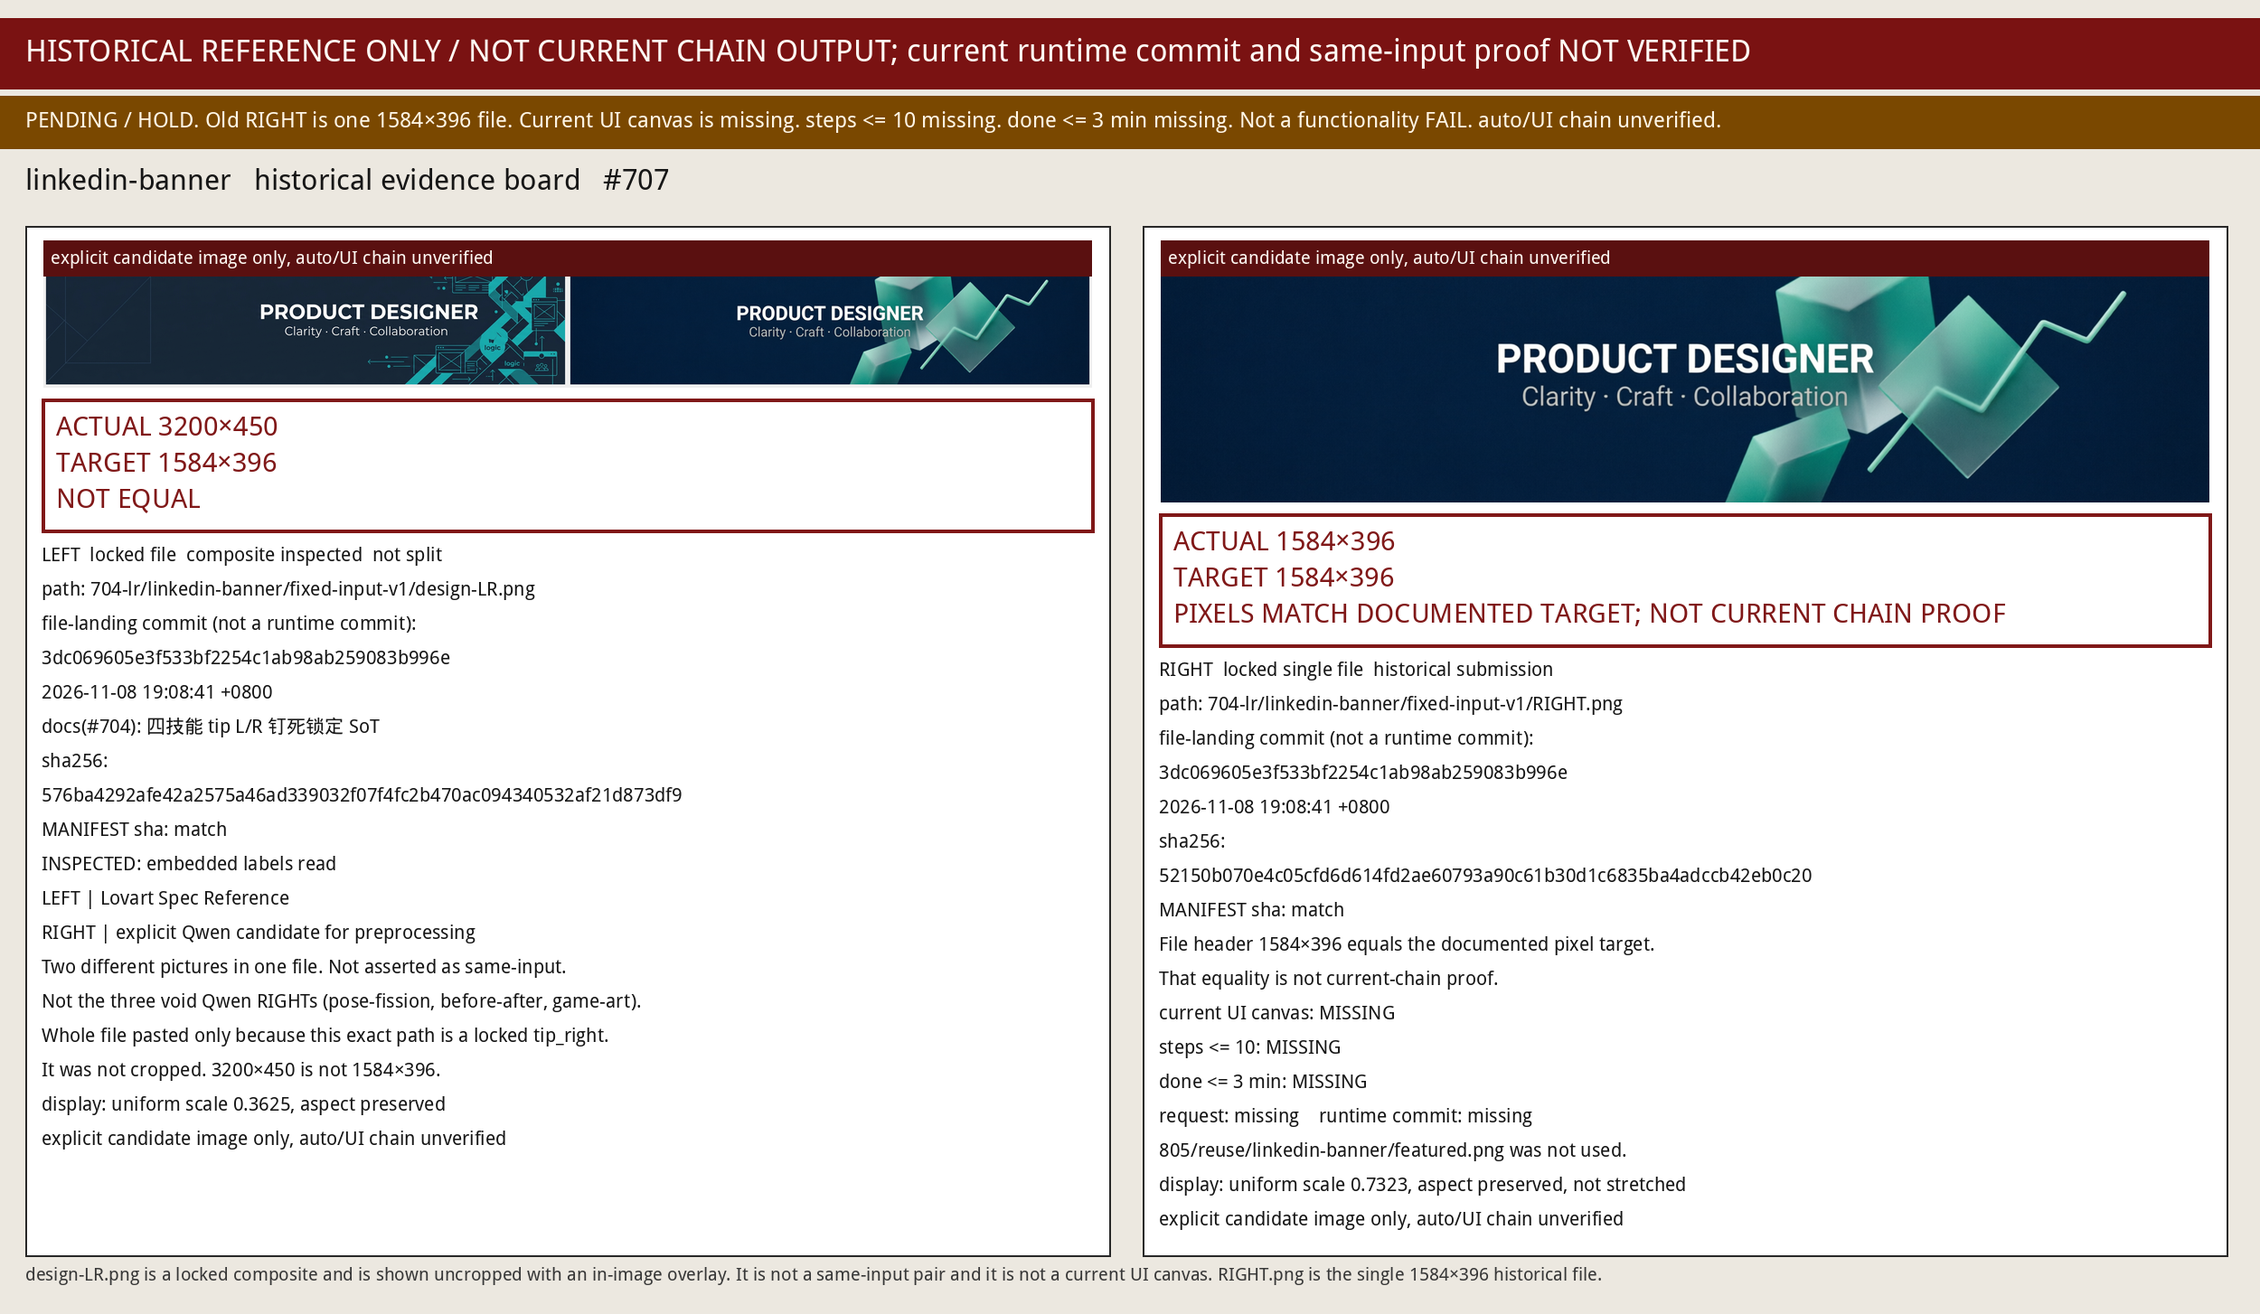
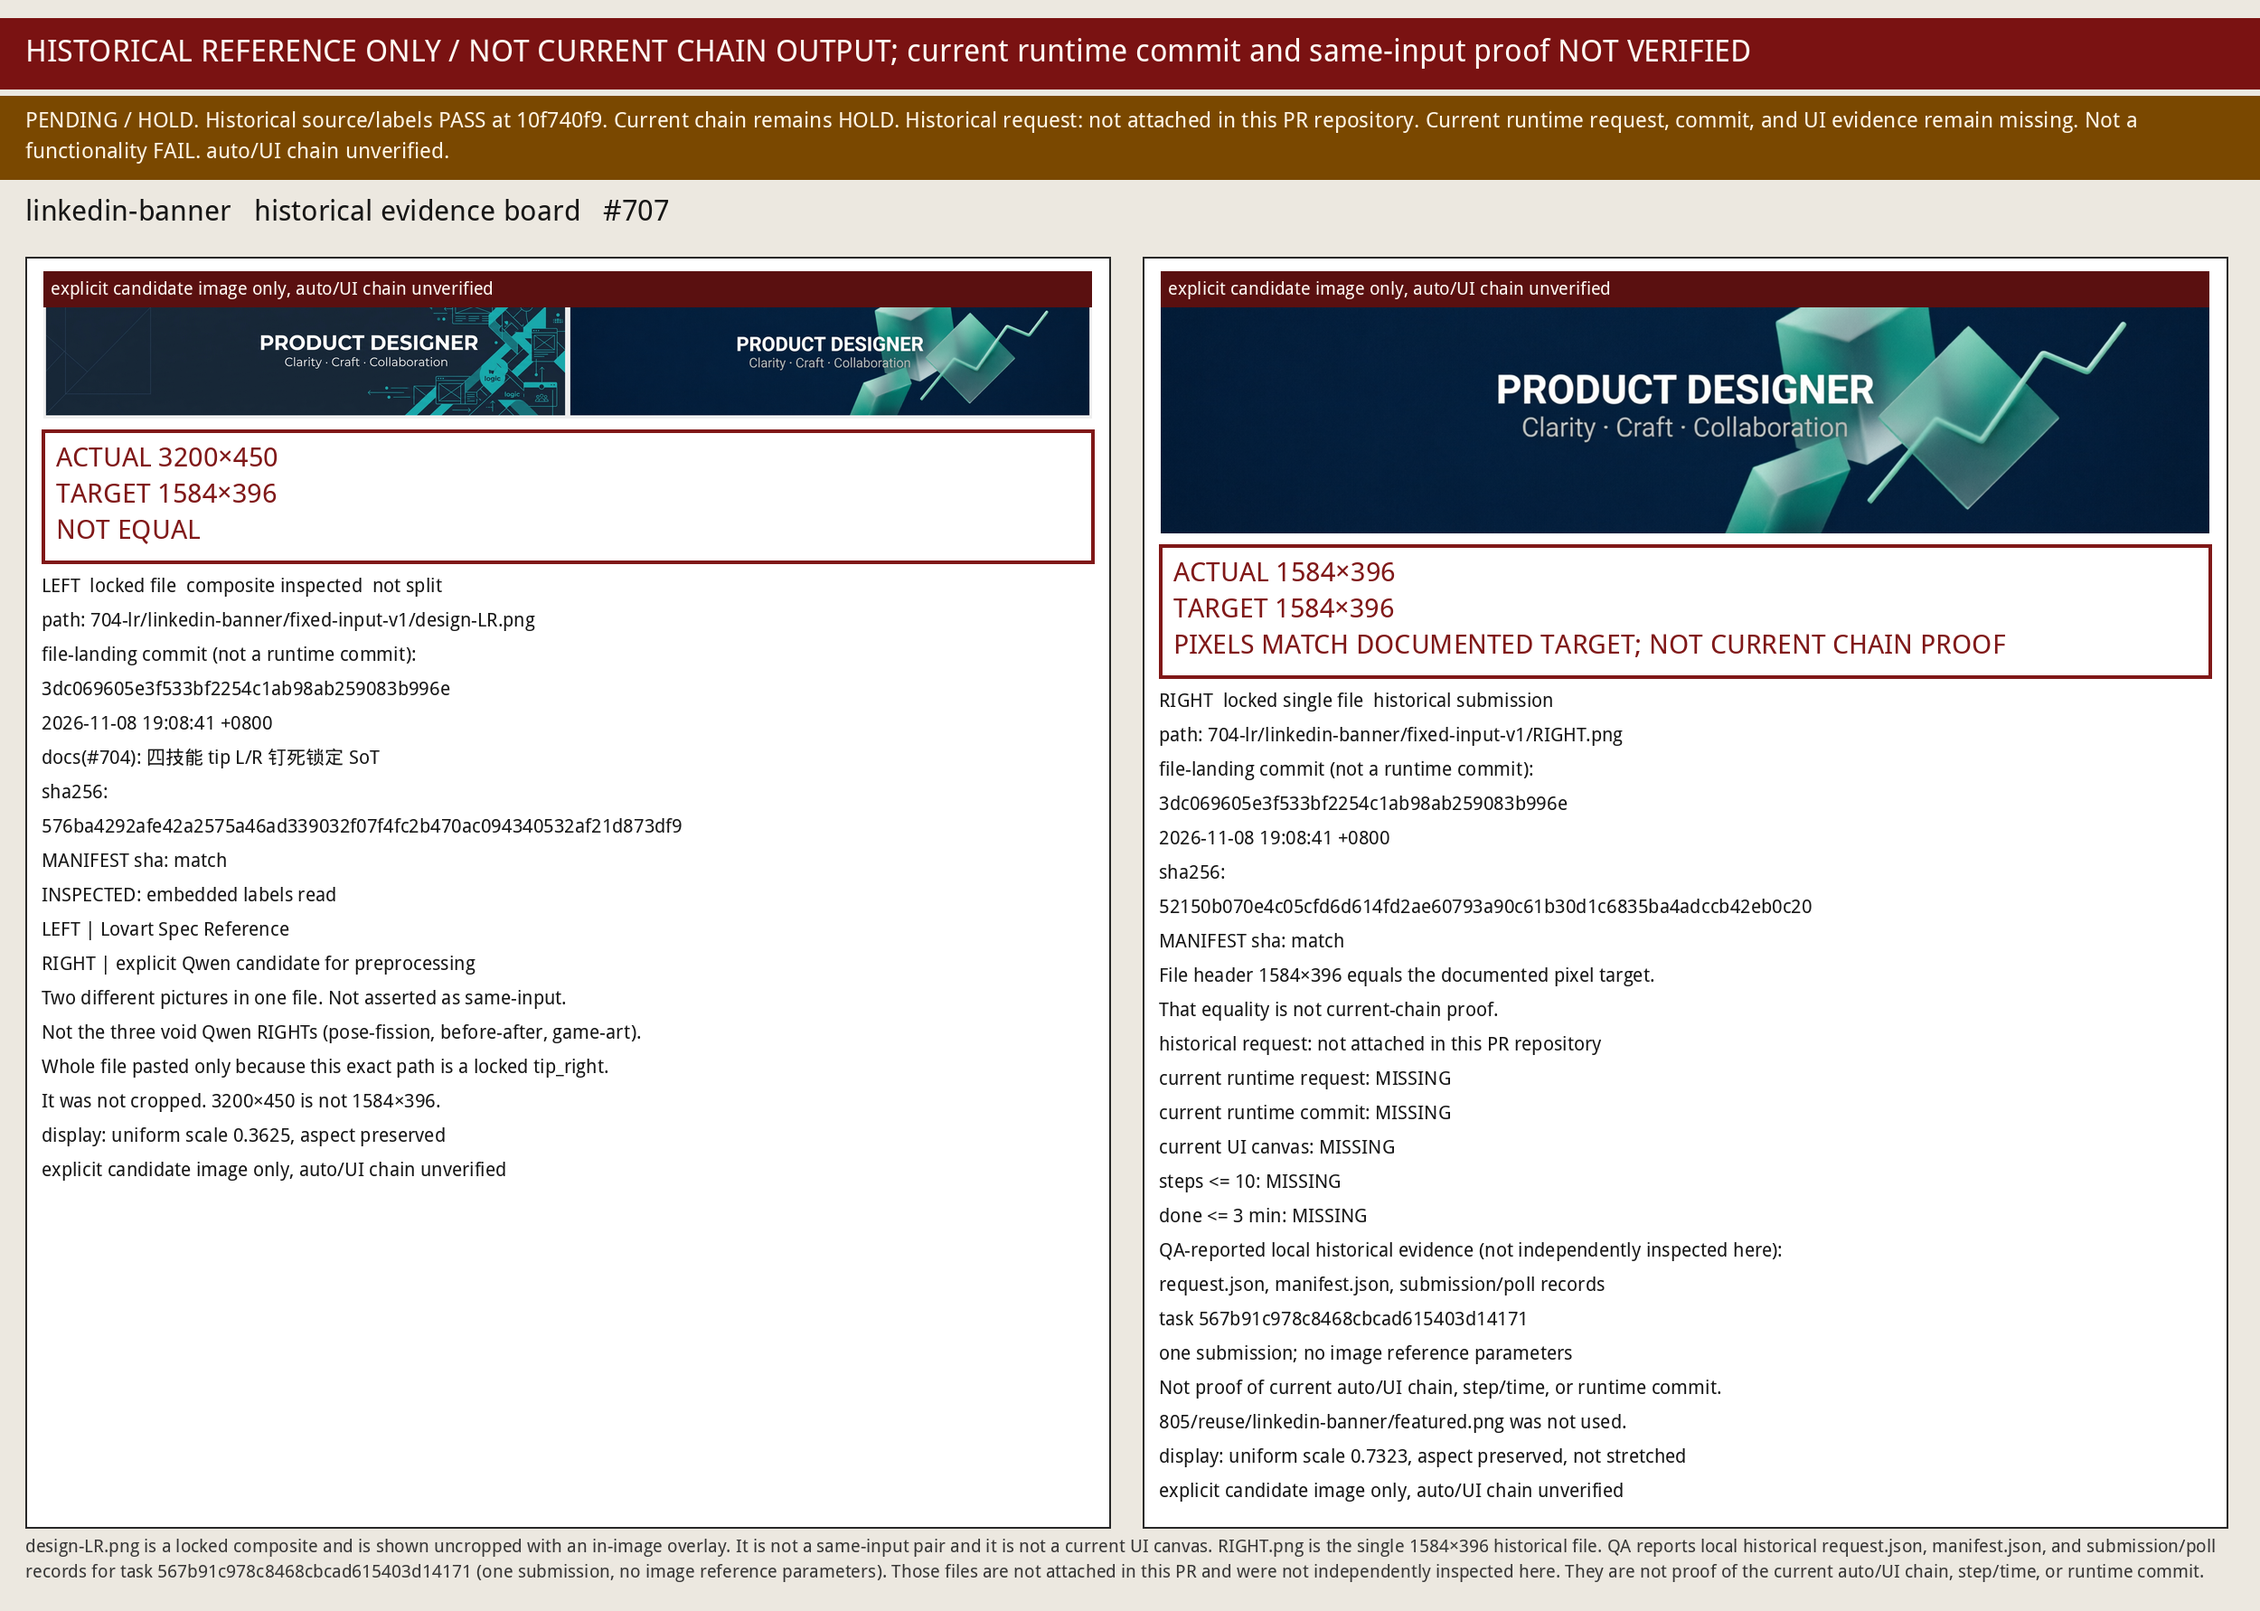
docs(#707): 收窄 LinkedIn 历史请求措辞
历史请求改为未附在本 PR 仓库。QA 报告的本地 request.json、manifest 和一次提交只作标注，不证明当前 auto/UI 链路。当前运行时请求、commit 和 UI 证据仍缺失。

Changed region(s): [[0.0, 0.0, 1.0, 0.9904]]

diff --git a/docs/design/707/evidence-audit/EVIDENCE-MATRIX.md b/docs/design/707/evidence-audit/EVIDENCE-MATRIX.md
@@ -4,6 +4,8 @@
 
 四张板都是 **PENDING / HOLD**。缺的是当前 tip 运行时证据。这不是功能 FAIL。没有证据不等于功能失败。
 
+QA：历史来源与标注在 `10f740f9` 为 PASS。当前链路仍是 HOLD。
+
 板上固定句：`HISTORICAL REFERENCE ONLY / NOT CURRENT CHAIN OUTPUT; current runtime commit and same-input proof NOT VERIFIED`
 
 文件落地 commit 不是运行时 commit。下面凡写 unknown 或 missing，都是仓库记录里没有，不补写。
@@ -73,8 +75,8 @@
 | 字段 | 结果 |
 |---|---|
 | 输入/参考身份 | 没有单独的已核验输入文件。`design-LR.png` 目视内嵌字：左 `LEFT | Lovart Spec Reference`，右 `RIGHT | explicit Qwen candidate for preprocessing`。两张不同的图在一个文件里。同输入未核验。 |
-| 请求 | 缺失。旁边没有 prompt 记录。NOTES 只说按已验收原字节拷入，不重新生成。 |
-| 运行时 commit | 缺失。落地 commit `3dc069605e3f533bf2254c1ab98ab259083b996e`（2026-11-08 +0800，#704 SoT 锁定）不是生成运行时 commit。 |
+| 请求 | 历史请求未附在本 PR 仓库。不是笼统的「请求不存在」。QA 报告本地有历史 `request.json`、`manifest.json`、submission/poll 记录，task `567b91c978c8468cbcad615403d14171`，一次提交，没有图像参考参数。这是 QA 报告的本地历史证据，本 PR 没有独立查看这些文件。它们不是当前 auto/UI 链路、step/time 或运行时 commit 的证明。当前运行时请求仍然缺失。 |
+| 运行时 commit | 当前运行时 commit 仍然缺失。落地 commit `3dc069605e3f533bf2254c1ab98ab259083b996e`（2026-11-08 +0800，#704 SoT 锁定）不是生成运行时 commit。 |
 | 图像尺寸 | `RIGHT.png` 1584×396，与文档目标像素一致（文件头已核验）。`design-LR.png` 3200×450，不等于 1584×396。都按原比例显示，没有把 design-LR 拉成 1584×396。 |
 | 当前 UI canvas | 缺失 |
 | step ≤ 10 | 缺失 |
@@ -84,7 +86,7 @@
 | 板上声明 | 两张图都盖了 `explicit candidate image only, auto/UI chain unverified`。像素一致不是当前链路证明。 |
 | 未用 | `805/reuse/linkedin-banner/featured.png`。三张作废 Qwen RIGHT（pose-fission、before-after、game-art）未用，工作区里也没有这些文件。 |
 
-旧 RIGHT 是一张 1584×396。当前 UI 画布、≤10 步、≤3 分钟 done 都没有。
+旧 RIGHT 是一张 1584×396。历史请求未附在本 PR 仓库。当前运行时请求、运行时 commit、UI 画布、≤10 步、≤3 分钟 done 仍然缺失。QA 报告的本地历史记录不是当前链路证明。
 
 ## 板文件
 
@@ -95,4 +97,4 @@
[5 lines of base64/hex data omitted]
